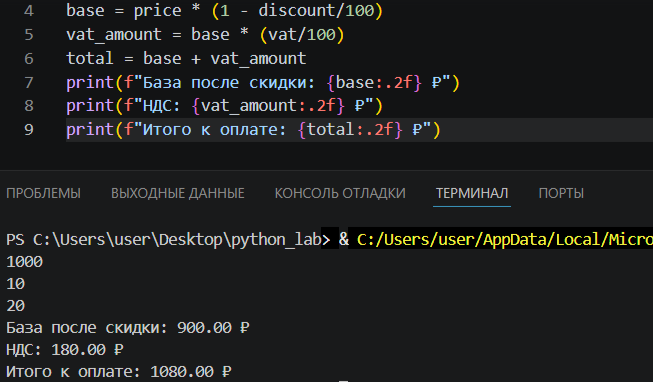
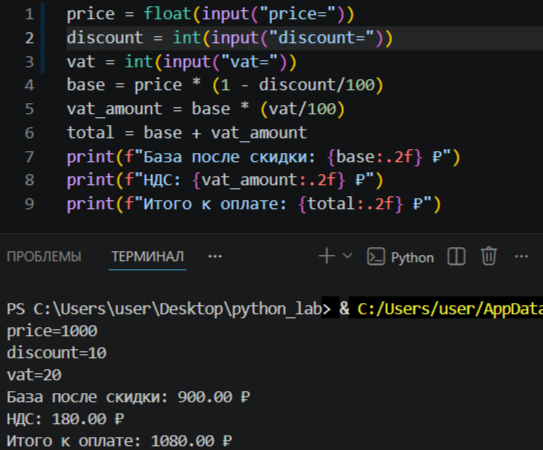
dd

diff --git a/src/lab01/03_discount_vat.py b/src/lab01/03_discount_vat.py
@@ -1,6 +1,6 @@
-price = float(input())
-discount = int(input())
-vat = int(input())
+price = float(input("price="))
+discount = int(input("discount="))
+vat = int(input("vat="))
 base = price * (1 - discount/100)
 vat_amount = base * (vat/100)
 total = base + vat_amount
